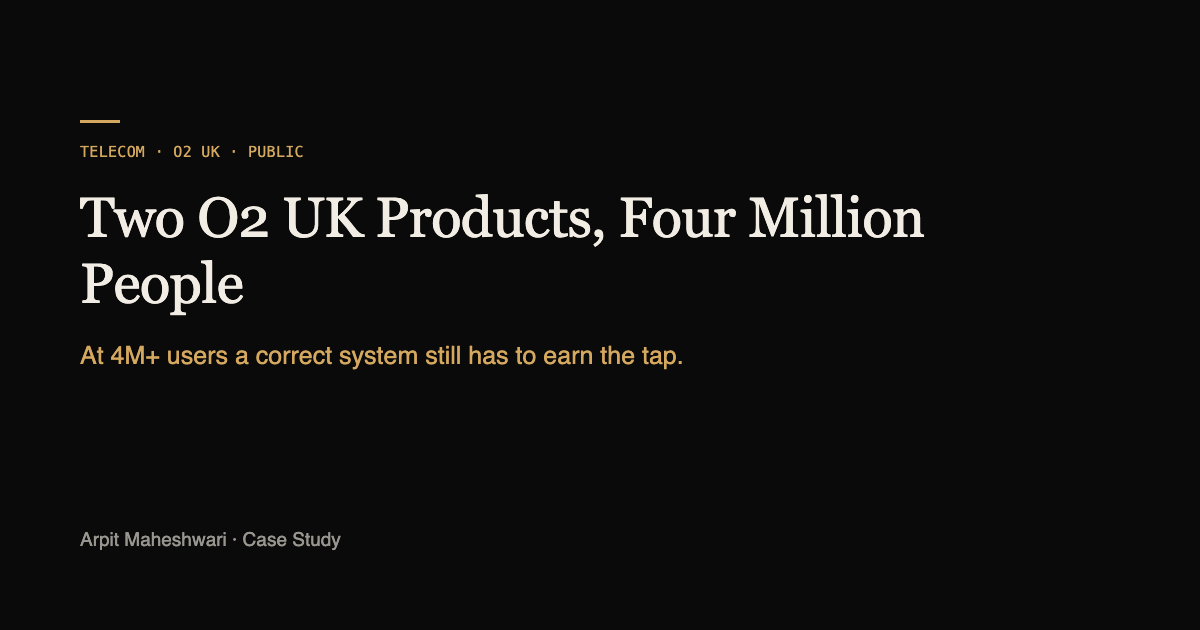
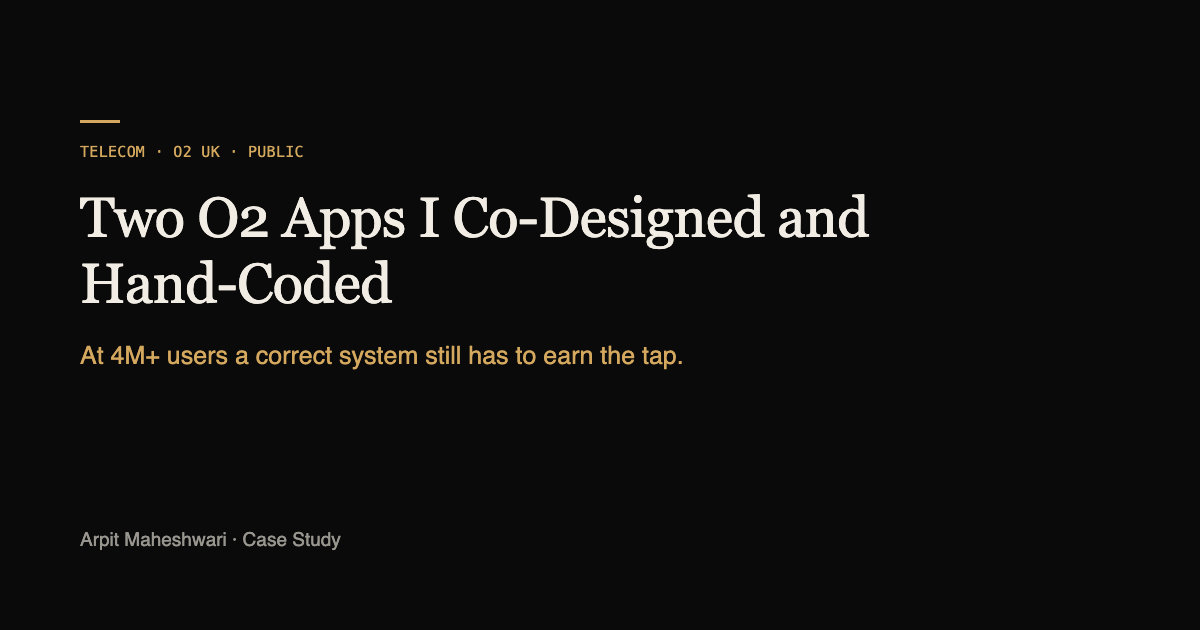
[site] O2 and PlanIt titles follow the homepage cards on every surface — case page (title, h1, share title, structured data), book, case-facts, share cards, pattern-page link, canon; 'roadmap' restored on the AdTech and OrgOS card role lines; hyphenated words kept whole in the O2 headline and card r

Changed region(s): [[0.0617, 0.3016, 0.7708, 0.5127]]

diff --git a/partials/pages/case-studies/planit.html b/partials/pages/case-studies/planit.html
@@ -1,14 +1,14 @@
 <!--page body_class="p-case-studies-planit" footer_note="No copyright · Design is for all"-->
 <!--head--><meta charset="UTF-8">
 <meta name="viewport" content="width=device-width, initial-scale=1.0">
-<title>The App People Broke on Purpose — PlanIt — Arpit Maheshwari</title>
+<title>One Quietness Score for Anxious Travellers — PlanIt — Arpit Maheshwari</title>
 <script data-cfasync="false">document.documentElement.classList.add('vg-js');</script>
 <meta name="description" content="Consumer 0 → 1: a London transit app that optimised for breathing room, not speed. People triggered errors deliberately to watch the mascot look sad — the failure state became the retention driver.">
 <meta name="author" content="Arpit Maheshwari">
 <meta name="theme-color" content="#0A0A0A">
 <link rel="canonical" href="https://arpitmaheshwari.com/case-studies/planit.html">
 <meta property="og:type" content="article">
-<meta property="og:title" content="The App People Broke on Purpose — PlanIt Case Study">
+<meta property="og:title" content="One Quietness Score for Anxious Travellers — PlanIt Case Study">
 <meta property="og:description" content="Six months, one designer-strategist, real footfall data — and an interface that paid the emotional cost of choosing a slower train.">
 <meta property="og:url" content="https://arpitmaheshwari.com/case-studies/planit.html">
 <meta property="og:site_name" content="Arpit Maheshwari Portfolio">
@@ -16,7 +16,7 @@
 <meta property="og:image:width" content="1200">
 <meta property="og:image:height" content="630">
 <meta name="twitter:card" content="summary_large_image">
-<meta name="twitter:title" content="The App People Broke on Purpose">
+<meta name="twitter:title" content="One Quietness Score for Anxious Travellers">
 <meta name="twitter:description" content="Six months, one designer-strategist, and an interface that paid the emotional cost of choosing a slower train.">
 <link rel="icon" type="image/svg+xml" href="/favicon.svg">
 <link rel="preload" as="font" type="font/woff2" crossorigin href="/assets/fonts-web/source-sans-3-normal-400.woff2">
@@ -27,7 +27,7 @@
 {
   "@context":"https://schema.org",
   "@type":"Article",
-  "headline":"The App People Broke on Purpose",
+  "headline":"One Quietness Score for Anxious Travellers",
   "description":"Case study on a London transit product that optimised for breathing room instead of speed, and the mascot that made choosing a slower journey acceptable.",
   "author":{"@type":"Person","name":"Arpit Maheshwari"},
   "datePublished":"2026-03-15",
@@ -41,7 +41,7 @@
   "itemListElement":[
     {"@type":"ListItem","position":1,"name":"Home","item":"https://arpitmaheshwari.com/"},
     {"@type":"ListItem","position":2,"name":"Work","item":"https://arpitmaheshwari.com/#featured-case-studies"},
-    {"@type":"ListItem","position":3,"name":"The App People Broke on Purpose","item":"https://arpitmaheshwari.com/case-studies/planit.html"}
+    {"@type":"ListItem","position":3,"name":"One Quietness Score for Anxious Travellers","item":"https://arpitmaheshwari.com/case-studies/planit.html"}
   ]
 }
 </script>
@@ -66,7 +66,7 @@
   <div class="case-hero__in case-hero__in--solo">
     <div>
       <p class="case-hero__kicker">Consumer · PlanIt · London transit · one case, one stealable principle</p>
-      <h1>The App People Broke on Purpose</h1>
+      <h1>One Quietness Score for Anxious Travellers</h1>
       <p class="case-hero__hook">PlanIt could already predict which carriages would be empty. Real footfall data from the London Underground and National Rail, working as advertised. And still the hard part was untouched, because nobody chooses a slower train to be efficient &mdash; they choose it to breathe. This is the case where the thing everyone treats as a defect, the error state, turned out to be the most loved screen in the product. If you treat the error state as a defect, this case may change your mind.</p>
       <p class="case-own"><span class="case-own__k">What I owned</span>Designer &amp; strategist &middot; remote distributed team</p>
       <div class="case-stats">

diff --git a/case-studies/planit.html b/case-studies/planit.html
@@ -3,14 +3,14 @@
 <head>
 <meta charset="UTF-8">
 <meta name="viewport" content="width=device-width, initial-scale=1.0">
-<title>The App People Broke on Purpose — PlanIt — Arpit Maheshwari</title>
+<title>One Quietness Score for Anxious Travellers — PlanIt — Arpit Maheshwari</title>
 <script data-cfasync="false">document.documentElement.classList.add('vg-js');</script>
 <meta name="description" content="Consumer 0 → 1: a London transit app that optimised for breathing room, not speed. People triggered errors deliberately to watch the mascot look sad — the failure state became the retention driver.">
 <meta name="author" content="Arpit Maheshwari">
 <meta name="theme-color" content="#0A0A0A">
 <link rel="canonical" href="https://arpitmaheshwari.com/case-studies/planit.html">
 <meta property="og:type" content="article">
-<meta property="og:title" content="The App People Broke on Purpose — PlanIt Case Study">
+<meta property="og:title" content="One Quietness Score for Anxious Travellers — PlanIt Case Study">
 <meta property="og:description" content="Six months, one designer-strategist, real footfall data — and an interface that paid the emotional cost of choosing a slower train.">
 <meta property="og:url" content="https://arpitmaheshwari.com/case-studies/planit.html">
 <meta property="og:site_name" content="Arpit Maheshwari Portfolio">
@@ -18,7 +18,7 @@
 <meta property="og:image:width" content="1200">
 <meta property="og:image:height" content="630">
 <meta name="twitter:card" content="summary_large_image">
-<meta name="twitter:title" content="The App People Broke on Purpose">
+<meta name="twitter:title" content="One Quietness Score for Anxious Travellers">
 <meta name="twitter:description" content="Six months, one designer-strategist, and an interface that paid the emotional cost of choosing a slower train.">
 <link rel="icon" type="image/svg+xml" href="/favicon.svg">
 <link rel="preload" as="font" type="font/woff2" crossorigin href="/assets/fonts-web/source-sans-3-normal-400.woff2">
@@ -29,7 +29,7 @@
 {
   "@context":"https://schema.org",
   "@type":"Article",
-  "headline":"The App People Broke on Purpose",
+  "headline":"One Quietness Score for Anxious Travellers",
   "description":"Case study on a London transit product that optimised for breathing room instead of speed, and the mascot that made choosing a slower journey acceptable.",
   "author":{"@type":"Person","name":"Arpit Maheshwari"},
   "datePublished":"2026-03-15",
@@ -43,7 +43,7 @@
   "itemListElement":[
     {"@type":"ListItem","position":1,"name":"Home","item":"https://arpitmaheshwari.com/"},
     {"@type":"ListItem","position":2,"name":"Work","item":"https://arpitmaheshwari.com/#featured-case-studies"},
-    {"@type":"ListItem","position":3,"name":"The App People Broke on Purpose","item":"https://arpitmaheshwari.com/case-studies/planit.html"}
+    {"@type":"ListItem","position":3,"name":"One Quietness Score for Anxious Travellers","item":"https://arpitmaheshwari.com/case-studies/planit.html"}
   ]
 }
 </script>
@@ -87,7 +87,7 @@
   <div class="case-hero__in case-hero__in--solo">
     <div>
       <p class="case-hero__kicker">Consumer · PlanIt · London transit · one case, one stealable principle</p>
-      <h1>The App People Broke on Purpose</h1>
+      <h1>One Quietness Score for Anxious Travellers</h1>
       <p class="case-hero__hook">PlanIt could already predict which carriages would be empty. Real footfall data from the London Underground and National Rail, working as advertised. And still the hard part was untouched, because nobody chooses a slower train to be efficient &mdash; they choose it to breathe. This is the case where the thing everyone treats as a defect, the error state, turned out to be the most loved screen in the product. If you treat the error state as a defect, this case may change your mind.</p>
       <p class="case-own"><span class="case-own__k">What I owned</span>Designer &amp; strategist &middot; remote distributed team</p>
       <div class="case-stats">

diff --git a/book/index.html b/book/index.html
@@ -128,8 +128,8 @@
 <li><strong>Due Diligence You Can’t Rubber-Stamp</strong> — VC/PE · NDA · 3 wks → 4 days<br>Partners stake millions on claims they&rsquo;ll never personally verify. So sign-off stays locked until the evidence is read — the friction was the product.</li>
 <li><strong>The Software That Replaced the Org Chart</strong> — Org Design · NDA · 200<br>Eight modules doing the coordination work a management layer usually does. Designed for 200 people with no managers — 250 run on it today.</li>
 <li><strong>The Redesign That Asked PTC to Kill Four Products</strong> — EdTech · Non-NDA · $1M/yr<br>Five learning platforms, one survivor, eleven languages. Drawing the screens was easy; convincing a company to retire four products and rewire its revenue model was the work that mattered.</li>
-<li><strong>Two O2 UK Products, Four Million People</strong> — Telecom · Non-NDA · 4M+<br>Two O2 UK products at national scale. Every screen co-designed, every screen coded by me — mobile web for four million pockets.</li>
-<li><strong>The App People Broke on Purpose</strong> — Consumer · PlanIt · 18 to 80<br>The same client&rsquo;s data, pointed at an anxious traveller. A London transit app that answered “will I be able to breathe when I get on?” — and whose users triggered the error screen on purpose, just to watch the little train be sorry. The failure state became the reason they came back.</li>
+<li><strong>Two O2 Apps I Co-Designed and Hand-Coded</strong> — Telecom · Non-NDA · 4M+<br>Two O2 UK products at national scale. Every screen co-designed, every screen coded by me — mobile web for four million pockets.</li>
+<li><strong>One Quietness Score for Anxious Travellers</strong> — Consumer · PlanIt · 18 to 80<br>The same client&rsquo;s data, pointed at an anxious traveller. A London transit app that answered “will I be able to breathe when I get on?” — and whose users triggered the error screen on purpose, just to watch the little train be sorry. The failure state became the reason they came back.</li>
 </ul>
 <section class='nsb-method'>
 <h2>The Method — how the work gets made</h2>
@@ -176,7 +176,7 @@
 <blockquote>The redesign took a quarter. The case for deleting four products took a year — and that was the actual design work.<cite>— PTC University, project note</cite></blockquote>
 </article>
 <article class='nsb-case'>
-<h3>02 · Two O2 UK Products, Four Million People</h3>
+<h3>02 · Two O2 Apps I Co-Designed and Hand-Coded</h3>
 <p class='nsb-tag'>Telecom · Non-NDA</p>
 <p class='nsb-standfirst'>Designed with one co-designer, coded by me alone — every screen of two O2 UK products on mobile web, at a scale where rounding errors have populations.</p>
 <dl class='nsb-meta'>
@@ -487,11 +487,11 @@
 <!-- The locked case facts, shared with the classic pages via tools/case-sync-check.py.
      Must load BEFORE portfolio.js, which throws rather than render a case with missing
      facts. Plain script, no build step — this site ships as static files on purpose. -->
-<script src="../data/case-facts.js?v=76bd34d8" data-cfasync="false"></script>
+<script src="../data/case-facts.js?v=fc759a08" data-cfasync="false"></script>
 <script defer src="./vendor/react.production.min.js" data-cfasync="false"></script>
 <script defer src="./vendor/react-dom.production.min.js" data-cfasync="false"></script>
 <script src="monograph-icons.js" defer data-cfasync="false"></script>
-<script src="portfolio.js?v=e0e6d81f" defer data-cfasync="false"></script>
+<script src="portfolio.js?v=05e6cc4d" defer data-cfasync="false"></script>
 <script defer src="../dyslexia.js" data-cfasync="false"></script>
   <script defer src="../attention.js?v=cc700788" data-cfasync="false"></script>
 <script defer src="../clarity.js?v=9e4df576" data-cfasync="false"></script>

diff --git a/partials/pages/case-studies/o2.html b/partials/pages/case-studies/o2.html
@@ -1,14 +1,14 @@
 <!--page body_class="p-case-studies-o2" footer_note="No copyright · Design is for all"-->
 <!--head--><meta charset="UTF-8">
 <meta name="viewport" content="width=device-width, initial-scale=1.0">
-<title>Two O2 UK Products, Four Million People — Arpit Maheshwari</title>
+<title>Two O2 Apps I Co-Designed and Hand-Coded — Arpit Maheshwari</title>
 <script data-cfasync="false">document.documentElement.classList.add('vg-js');</script>
 <meta name="description" content="MyO2 (4M+ users) and O2 Priority Moments (2.6M sign-ups) — two O2 UK consumer products I co-designed and coded on mobile web, via Equal Experts.">
 <meta name="author" content="Arpit Maheshwari">
 <meta name="theme-color" content="#0A0A0A">
 <link rel="canonical" href="https://arpitmaheshwari.com/case-studies/o2.html">
 <meta property="og:type" content="article">
-<meta property="og:title" content="Two O2 UK Products, Four Million People — Telecom Case Study">
+<meta property="og:title" content="Two O2 Apps I Co-Designed and Hand-Coded — Telecom Case Study">
 <meta property="og:description" content="At 4M+ users a correct system still has to earn the tap. Every screen co-designed, every screen coded by me — MyO2 and Priority Moments on mobile web.">
 <meta property="og:url" content="https://arpitmaheshwari.com/case-studies/o2.html">
 <meta property="og:image" content="https://arpitmaheshwari.com/assets/og-images/o2-og.png">
@@ -24,7 +24,7 @@
 {
   "@context":"https://schema.org",
   "@type":"Article",
-  "headline":"Two O2 UK Products, Four Million People",
+  "headline":"Two O2 Apps I Co-Designed and Hand-Coded",
   "description":"How I co-designed every screen and wrote all the front-end of MyO2 — O2 UK's self-service app that went on to serve 4M+ users — and O2 Priority Moments, the loyalty programme that reached 2.6M registrations in year one. Mobile web, delivered through Equal Experts.",
   "author":{"@type":"Person","name":"Arpit Maheshwari"},
   "datePublished":"2013-06-30",
@@ -38,7 +38,7 @@
   "itemListElement":[
     {"@type":"ListItem","position":1,"name":"Home","item":"https://arpitmaheshwari.com/"},
     {"@type":"ListItem","position":2,"name":"Work","item":"https://arpitmaheshwari.com/#featured-case-studies"},
-    {"@type":"ListItem","position":3,"name":"Two O2 UK Products, Four Million People","item":"https://arpitmaheshwari.com/case-studies/o2.html"}
+    {"@type":"ListItem","position":3,"name":"Two O2 Apps I Co-Designed and Hand-Coded","item":"https://arpitmaheshwari.com/case-studies/o2.html"}
   ]
 }
 </script>
@@ -63,7 +63,7 @@
   <div class="case-hero__in case-hero__in--solo">
     <div>
       <p class="case-hero__kicker">Telecom · O2 UK (Telefónica) · one case, one stealable principle</p>
-      <h1>Two O2 UK Products, Four Million People</h1>
+      <h1>Two O2 Apps I Co&#8209;Designed and Hand&#8209;Coded</h1>
       <p class="case-hero__hook">Two O2 UK products, every screen designed with one co-designer and coded by me, at a scale where rounding errors have populations. The billing logic was always right; the retention story lived or died on whether a bill screen and an offer card gave four million people a reason to act. MyO2 and Priority Moments. If you ship at that scale, the lesson here is that correct is not the same as acted on.</p>
       <p class="case-own"><span class="case-own__k">What I owned</span>Design + front-end only &mdash; on contract through Equal Experts</p>
       <p class="hand xi-case-studies-adtech-005" aria-hidden="true">the receipts are public on this one</p>

diff --git a/case-studies/o2.html b/case-studies/o2.html
@@ -3,14 +3,14 @@
 <head>
 <meta charset="UTF-8">
 <meta name="viewport" content="width=device-width, initial-scale=1.0">
-<title>Two O2 UK Products, Four Million People — Arpit Maheshwari</title>
+<title>Two O2 Apps I Co-Designed and Hand-Coded — Arpit Maheshwari</title>
 <script data-cfasync="false">document.documentElement.classList.add('vg-js');</script>
 <meta name="description" content="MyO2 (4M+ users) and O2 Priority Moments (2.6M sign-ups) — two O2 UK consumer products I co-designed and coded on mobile web, via Equal Experts.">
 <meta name="author" content="Arpit Maheshwari">
 <meta name="theme-color" content="#0A0A0A">
 <link rel="canonical" href="https://arpitmaheshwari.com/case-studies/o2.html">
 <meta property="og:type" content="article">
-<meta property="og:title" content="Two O2 UK Products, Four Million People — Telecom Case Study">
+<meta property="og:title" content="Two O2 Apps I Co-Designed and Hand-Coded — Telecom Case Study">
 <meta property="og:description" content="At 4M+ users a correct system still has to earn the tap. Every screen co-designed, every screen coded by me — MyO2 and Priority Moments on mobile web.">
 <meta property="og:url" content="https://arpitmaheshwari.com/case-studies/o2.html">
 <meta property="og:image" content="https://arpitmaheshwari.com/assets/og-images/o2-og.png">
@@ -26,7 +26,7 @@
 {
   "@context":"https://schema.org",
   "@type":"Article",
-  "headline":"Two O2 UK Products, Four Million People",
+  "headline":"Two O2 Apps I Co-Designed and Hand-Coded",
   "description":"How I co-designed every screen and wrote all the front-end of MyO2 — O2 UK's self-service app that went on to serve 4M+ users — and O2 Priority Moments, the loyalty programme that reached 2.6M registrations in year one. Mobile web, delivered through Equal Experts.",
   "author":{"@type":"Person","name":"Arpit Maheshwari"},
   "datePublished":"2013-06-30",
@@ -40,7 +40,7 @@
   "itemListElement":[
     {"@type":"ListItem","position":1,"name":"Home","item":"https://arpitmaheshwari.com/"},
     {"@type":"ListItem","position":2,"name":"Work","item":"https://arpitmaheshwari.com/#featured-case-studies"},
-    {"@type":"ListItem","position":3,"name":"Two O2 UK Products, Four Million People","item":"https://arpitmaheshwari.com/case-studies/o2.html"}
+    {"@type":"ListItem","position":3,"name":"Two O2 Apps I Co-Designed and Hand-Coded","item":"https://arpitmaheshwari.com/case-studies/o2.html"}
   ]
 }
 </script>
@@ -84,7 +84,7 @@
   <div class="case-hero__in case-hero__in--solo">
     <div>
       <p class="case-hero__kicker">Telecom · O2 UK (Telefónica) · one case, one stealable principle</p>
-      <h1>Two O2 UK Products, Four Million People</h1>
+      <h1>Two O2 Apps I Co&#8209;Designed and Hand&#8209;Coded</h1>
       <p class="case-hero__hook">Two O2 UK products, every screen designed with one co-designer and coded by me, at a scale where rounding errors have populations. The billing logic was always right; the retention story lived or died on whether a bill screen and an offer card gave four million people a reason to act. MyO2 and Priority Moments. If you ship at that scale, the lesson here is that correct is not the same as acted on.</p>
       <p class="case-own"><span class="case-own__k">What I owned</span>Design + front-end only &mdash; on contract through Equal Experts</p>
       <p class="hand xi-case-studies-adtech-005" aria-hidden="true">the receipts are public on this one</p>

diff --git a/index.html b/index.html
@@ -324,7 +324,7 @@ document.documentElement.classList.add('vg-js');
         <p class="bcard-d">Traders watched an algorithm beat them and played their hunches
         anyway. The fix was letting them argue back — plans they could reshape in one
         click, every edit teaching next week.</p>
-        <p class="bcard-own">Product Manager &amp; Designer &middot; product definition and design across six systems &middot; 50+ distributed team</p>
+        <p class="bcard-own">Product Manager &amp; Designer &middot; product definition, roadmap and design across six systems &middot; 50+ distributed team</p>
       </div>
       <figure class="vg vg-plan">
         <div class="vg-hd"><b>Plan A</b><i class="vg-state" aria-hidden="true"></i></div>
@@ -410,10 +410,10 @@ document.documentElement.classList.add('vg-js');
     <!-- ═══ 5 · O2 — the allowances screen, filling to its real values ═══ -->
     <div class="bcard" style="--a:var(--acc-rose)" data-tint>
       <p class="bcard-s">Telecom &middot; 2012&ndash;14 &middot; Telef&oacute;nica O2 UK</p>
-      <h3><a class="bcard-go" href="./case-studies/o2.html" data-cta="case" data-location="work-range-o2">Two O2 Apps I Co-Designed and Hand-Coded</a></h3>
+      <h3><a class="bcard-go" href="./case-studies/o2.html" data-cta="case" data-location="work-range-o2">Two O2 Apps I Co&#8209;Designed and Hand&#8209;Coded</a></h3>
       <p class="bcard-r"><b>4M+</b> MyO2 users. O2&rsquo;s public figure, not mine</p>
       <p class="bcard-d">Every self-service task done in the app is a call that never happens. I co-designed every screen of the account app and the rewards app, and hand-coded the front-end.</p>
-      <p class="bcard-own">Designer + front-end developer &middot; on contract through Equal Experts &middot; one co-designer</p>
+      <p class="bcard-own">Designer + front-end developer &middot; on contract through Equal Experts &middot; one co&#8209;designer</p>
       <figure class="vg vg-allow">
         <div class="vg-hd"><b>My allowances</b><i>Pay Monthly</i></div>
         <ul class="vg-allows">
@@ -433,7 +433,7 @@ document.documentElement.classList.add('vg-js');
       <h3><a class="bcard-go" href="./case-studies/orgos.html" data-cta="case" data-location="work-range-orgos">The Software That Replaced the Org Chart</a></h3>
       <p class="bcard-r"><b>0 managers</b> in the loop for 200 people. 250 use it today</p>
       <p class="bcard-d">Two hundred people, no managers. Every obvious feature would have quietly appointed one, so people commit to work instead of being assigned it.</p>
-      <p class="bcard-own">Product Manager &amp; Designer &middot; with a PM and four engineering streams</p>
+      <p class="bcard-own">Product Manager &amp; Designer &middot; roadmap co&#8209;owned with the PM &middot; four engineering streams</p>
       <figure class="vg vg-bus">
         <div class="vg-hd"><b>OrgOS</b><i>No hierarchy</i></div>
         <div class="vg-row">

diff --git a/partials/pages/index.html b/partials/pages/index.html
@@ -303,7 +303,7 @@ document.documentElement.classList.add('vg-js');
         <p class="bcard-d">Traders watched an algorithm beat them and played their hunches
         anyway. The fix was letting them argue back — plans they could reshape in one
         click, every edit teaching next week.</p>
-        <p class="bcard-own">Product Manager &amp; Designer &middot; product definition and design across six systems &middot; 50+ distributed team</p>
+        <p class="bcard-own">Product Manager &amp; Designer &middot; product definition, roadmap and design across six systems &middot; 50+ distributed team</p>
       </div>
       <figure class="vg vg-plan">
         <div class="vg-hd"><b>Plan A</b><i class="vg-state" aria-hidden="true"></i></div>
@@ -389,10 +389,10 @@ document.documentElement.classList.add('vg-js');
     <!-- ═══ 5 · O2 — the allowances screen, filling to its real values ═══ -->
     <div class="bcard" style="--a:var(--acc-rose)" data-tint>
       <p class="bcard-s">Telecom &middot; 2012&ndash;14 &middot; Telef&oacute;nica O2 UK</p>
-      <h3><a class="bcard-go" href="./case-studies/o2.html" data-cta="case" data-location="work-range-o2">Two O2 Apps I Co-Designed and Hand-Coded</a></h3>
+      <h3><a class="bcard-go" href="./case-studies/o2.html" data-cta="case" data-location="work-range-o2">Two O2 Apps I Co&#8209;Designed and Hand&#8209;Coded</a></h3>
       <p class="bcard-r"><b>4M+</b> MyO2 users. O2&rsquo;s public figure, not mine</p>
       <p class="bcard-d">Every self-service task done in the app is a call that never happens. I co-designed every screen of the account app and the rewards app, and hand-coded the front-end.</p>
-      <p class="bcard-own">Designer + front-end developer &middot; on contract through Equal Experts &middot; one co-designer</p>
+      <p class="bcard-own">Designer + front-end developer &middot; on contract through Equal Experts &middot; one co&#8209;designer</p>
       <figure class="vg vg-allow">
         <div class="vg-hd"><b>My allowances</b><i>Pay Monthly</i></div>
         <ul class="vg-allows">
@@ -412,7 +412,7 @@ document.documentElement.classList.add('vg-js');
       <h3><a class="bcard-go" href="./case-studies/orgos.html" data-cta="case" data-location="work-range-orgos">The Software That Replaced the Org Chart</a></h3>
       <p class="bcard-r"><b>0 managers</b> in the loop for 200 people. 250 use it today</p>
       <p class="bcard-d">Two hundred people, no managers. Every obvious feature would have quietly appointed one, so people commit to work instead of being assigned it.</p>
-      <p class="bcard-own">Product Manager &amp; Designer &middot; with a PM and four engineering streams</p>
+      <p class="bcard-own">Product Manager &amp; Designer &middot; roadmap co&#8209;owned with the PM &middot; four engineering streams</p>
       <figure class="vg vg-bus">
         <div class="vg-hd"><b>OrgOS</b><i>No hierarchy</i></div>
         <div class="vg-row">

diff --git a/book/portfolio.js b/book/portfolio.js
@@ -42,13 +42,13 @@ const WORK = [{
     desc: "Five learning platforms, one survivor, eleven languages. Drawing the screens was easy; the case for retiring four products was the work that mattered."
 }, {
   tag: "Telecom · Non-NDA",
-    title: "Two O2 UK Products, Four Million People",
+    title: "Two O2 Apps I Co-Designed and Hand-Coded",
     metric: "4M+",
     basis: "O2’s figure, not mine",
     desc: "Two O2 UK products at national scale. Every screen co-designed, every screen coded by me — mobile web."
 }, {
   tag: "Consumer · PlanIt",
-  title: "The App People Broke on Purpose",
+  title: "One Quietness Score for Anxious Travellers",
   metric: "0 complaints",
   basis: "launch window · no tutorial",
   desc: "The same client’s data, pointed at an anxious traveller. People triggered the error screen on purpose, just to watch the little train be sorry — the failure state became the reason they came back."
@@ -2013,7 +2013,7 @@ function buildBook(ctx) {
       }, {
         crumb: "PlanIt",
         idxLabel: "walk-through",
-        runheadR: "PlanIt · The App People Broke on Purpose",
+        runheadR: "PlanIt · One Quietness Score for Anxious Travellers",
         folioL: "1",
         folioR: "2",
         ...ndaPages[5]

diff --git a/partials/pages/patterns/ai-failure-states.html b/partials/pages/patterns/ai-failure-states.html
@@ -361,7 +361,7 @@
     <h3 class="card-title xi-process-005">Where this pattern earned its keep</h3>
     <ul class="t-cap-loose xi-case-studies-adtech-052">
       <li class="xi-process-013"><strong><a class="link-gold" href="../case-studies/orgos.html">OrgOS</a>:</strong> Saying it plainly when a complex system hits its limits.</li>
-      <li class="xi-process-013"><strong><a class="link-gold" href="../case-studies/planit.html">The App People Broke on Purpose</a>:</strong> The furthest this pattern has ever gone &mdash; an error state people triggered on purpose, because the product was sorry in a way they wanted to see.</li>
+      <li class="xi-process-013"><strong><a class="link-gold" href="../case-studies/planit.html">One Quietness Score for Anxious Travellers</a>:</strong> The furthest this pattern has ever gone &mdash; an error state people triggered on purpose, because the product was sorry in a way they wanted to see.</li>
     </ul>
   </section>
 

diff --git a/patterns/ai-failure-states.html b/patterns/ai-failure-states.html
@@ -382,7 +382,7 @@
     <h3 class="card-title xi-process-005">Where this pattern earned its keep</h3>
     <ul class="t-cap-loose xi-case-studies-adtech-052">
       <li class="xi-process-013"><strong><a class="link-gold" href="../case-studies/orgos.html">OrgOS</a>:</strong> Saying it plainly when a complex system hits its limits.</li>
-      <li class="xi-process-013"><strong><a class="link-gold" href="../case-studies/planit.html">The App People Broke on Purpose</a>:</strong> The furthest this pattern has ever gone &mdash; an error state people triggered on purpose, because the product was sorry in a way they wanted to see.</li>
+      <li class="xi-process-013"><strong><a class="link-gold" href="../case-studies/planit.html">One Quietness Score for Anxious Travellers</a>:</strong> The furthest this pattern has ever gone &mdash; an error state people triggered on purpose, because the product was sorry in a way they wanted to see.</li>
     </ul>
   </section>
 

diff --git a/data/case-facts.js b/data/case-facts.js
@@ -90,7 +90,7 @@
     "o2": {
       "no": "02",
       "key": "o2",
-      "title": "Two O2 UK Products, Four Million People",
+      "title": "Two O2 Apps I Co-Designed and Hand-Coded",
       "tag": "Telecom · Non-NDA",
       "meta": [
         [
@@ -246,7 +246,7 @@
     "planit": {
       "no": "07",
       "key": "planit",
-      "title": "The App People Broke on Purpose",
+      "title": "One Quietness Score for Anxious Travellers",
       "tag": "Consumer · PlanIt",
       "meta": [
         ["Role", "Designer & strategist"],

diff --git a/tools/generate-og-cards.py b/tools/generate-og-cards.py
@@ -156,13 +156,13 @@ REG = [
      "Six systems, one platform \u2014 planning 2 wks \u2192 3 hrs once traders could argue back.", "Arpit Maheshwari \u00b7 Case Study"),
     ("ptc-og.png", "EDTECH · PTC · PUBLIC", "The Redesign That Asked PTC to Kill Four Products",
      "Five platforms to one \u00b7 $1M/yr saved \u00b7 subscription 0% \u2192 64% of new bookings.", "Arpit Maheshwari \u00b7 Case Study"),
-    ("o2-og.png", "TELECOM · O2 UK · PUBLIC", "Two O2 UK Products, Four Million People",
+    ("o2-og.png", "TELECOM · O2 UK · PUBLIC", "Two O2 Apps I Co-Designed and Hand-Coded",
      "At 4M+ users a correct system still has to earn the tap.", "Arpit Maheshwari \u00b7 Case Study"),
     ("orgos-og.png", "ORG DESIGN · NDA", "The Software That Replaced the Org Chart",
      "200 people, zero managers, eight modules doing an org chart\u2019s job.", "Arpit Maheshwari \u00b7 Case Study"),
     ("vc-diligence-og.png", "VC/PE · NDA", "Due Diligence You Can\u2019t Rubber-Stamp",
      "The right friction: sign-off locked until the evidence is opened \u00b7 3 wks \u2192 4 days.", "Arpit Maheshwari \u00b7 Case Study"),
-    ("planit-og.png", "CONSUMER · PLANIT · 2021", "The App People Broke on Purpose",
+    ("planit-og.png", "CONSUMER · PLANIT · 2021", "One Quietness Score for Anxious Travellers",
      "A transit app that optimised for breathing room \u2014 and an error state users went looking for.",
      "Arpit Maheshwari \u00b7 Case Study"),
     ("plugin-og.png", "THE LAB · 04 · MIT", "The Design System, as a Claude Plugin",
